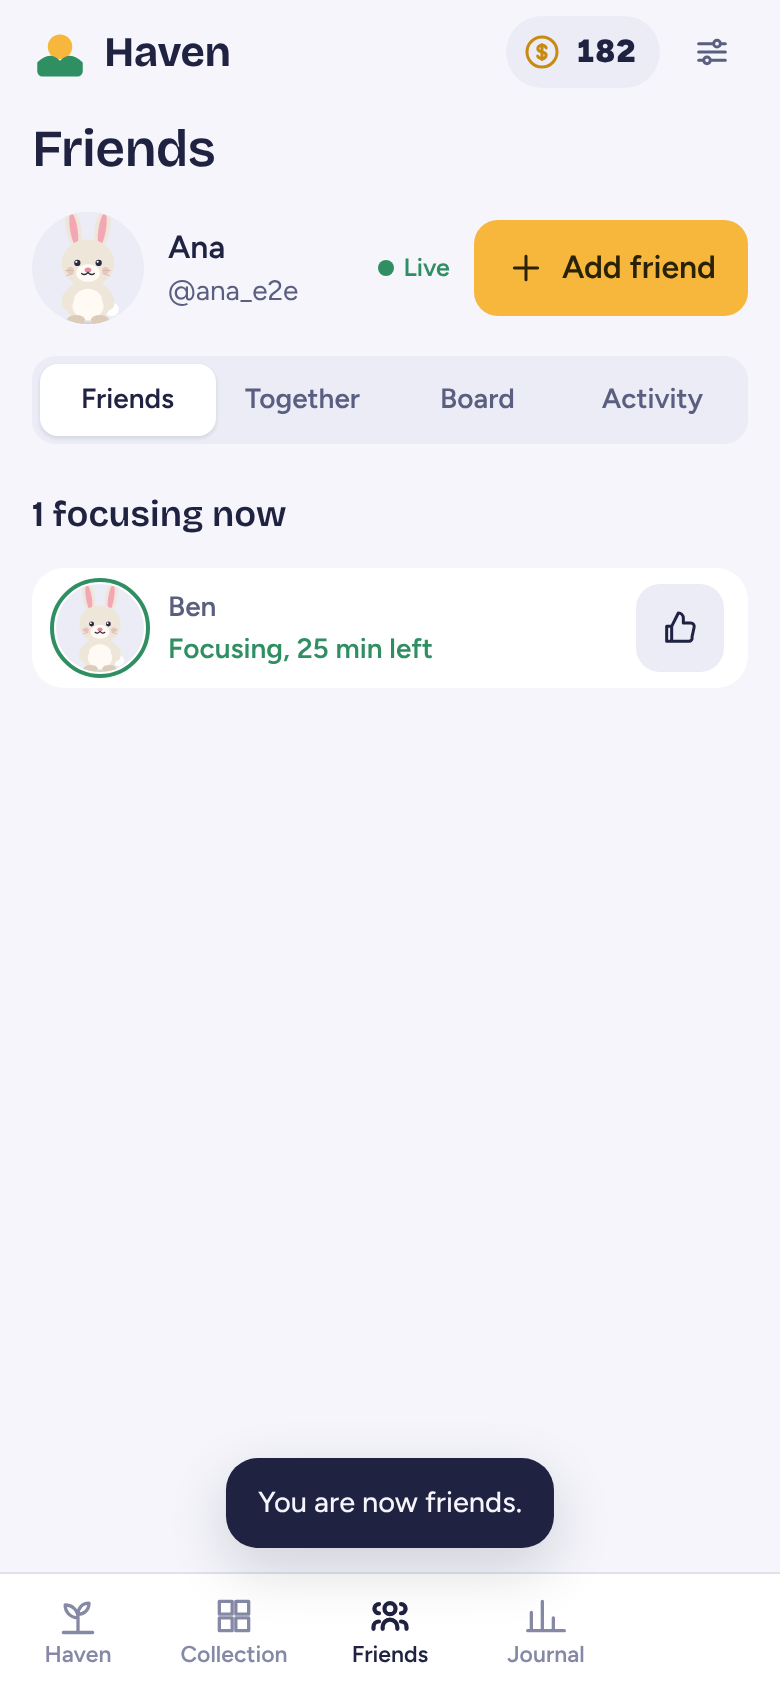
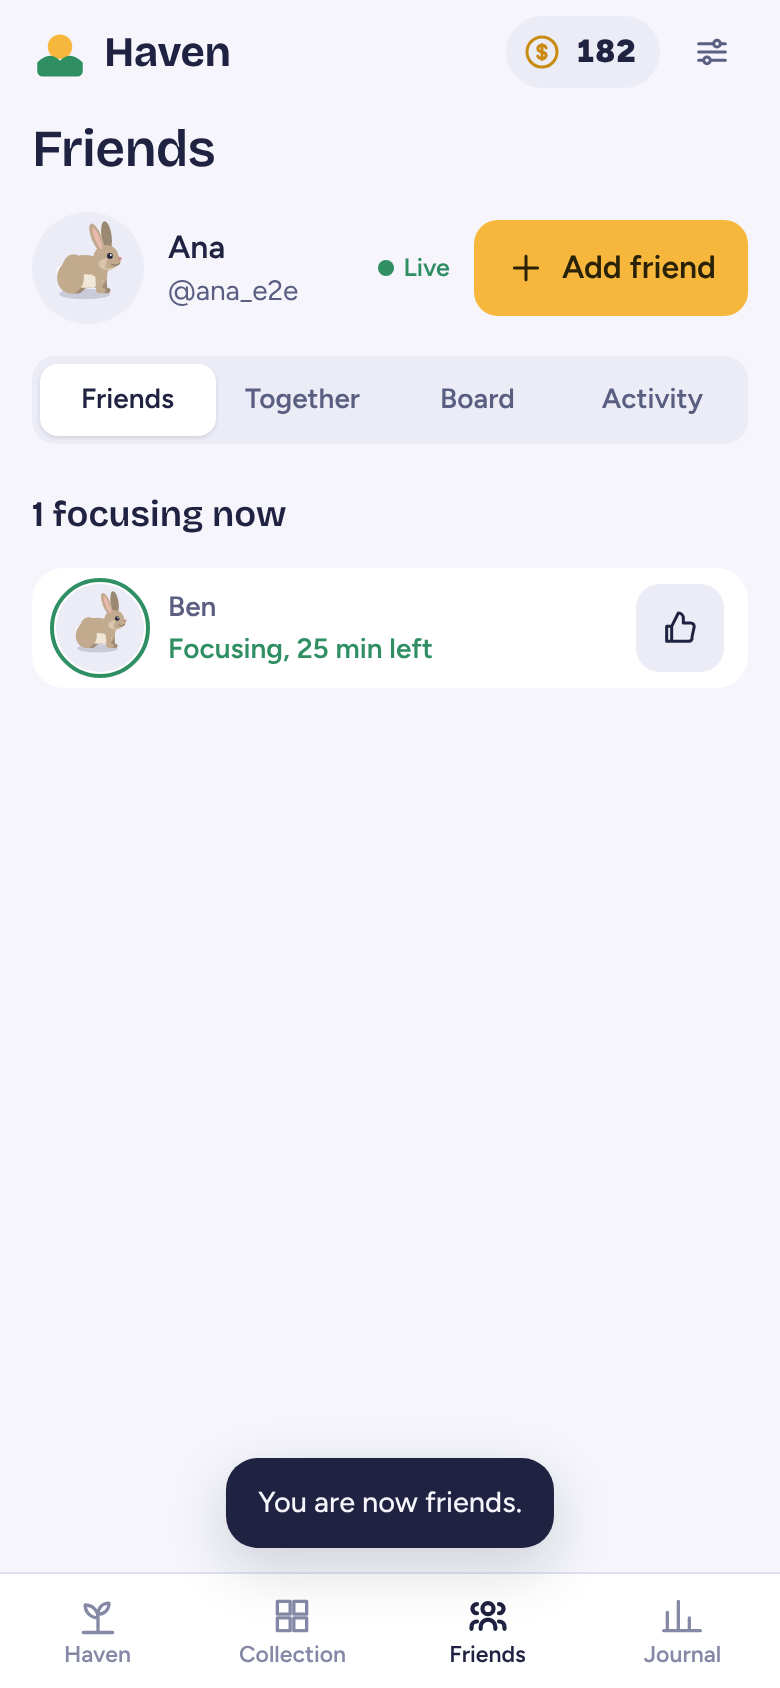
Small fixes to the way the app is laid out
- The tab bar made five columns for four tabs, so every tab sat left of
  where it belonged and a quarter of the bar was empty. It now divides
  itself between however many tabs there are, the way the segmented
  control already does.
- Animals sat low in the round avatars and were cropped at the bottom,
  because every drawing stands on the ground at the foot of its box.
  Each kind is now lifted by where its middle actually is.
- On a wide screen the treats and Arrange pills were pinned to the far
  corners, away from the haven. They now stay beside the land.
- Chrome darkens a slider's track to contrast with a light accent
  colour, so the volume slider had a near-black track on a white card.
  The track is drawn with the app's own colours in both themes.
- Chart bars were rounded at the bottom too, so they looked as though
  they floated above the line they stand on.

Claude-Session: https://claude.ai/code/session_01U2vW6AhbJutTokDW5NJwig

diff --git a/src/style.css b/src/style.css
@@ -52,7 +52,7 @@ svg { display: block; }
 .coins .icon { color: var(--coin); }
 .iconbutton { display: inline-grid; place-items: center; width: var(--touch); height: var(--touch); border-radius: var(--r-control); color: var(--muted); flex: none; }
 .iconbutton:hover { background: var(--soft); color: var(--ink); }
-.tabs { position: fixed; left: 0; right: 0; bottom: 0; z-index: 10; display: grid; grid-template-columns: repeat(5, 1fr); height: calc(var(--tabbar) + var(--sab)); padding: 0 var(--sar) var(--sab) var(--sal); background: var(--card); border-top: 1px solid var(--line); }
+.tabs { position: fixed; left: 0; right: 0; bottom: 0; z-index: 10; display: grid; grid-auto-flow: column; grid-auto-columns: 1fr; height: calc(var(--tabbar) + var(--sab)); padding: 0 var(--sar) var(--sab) var(--sal); background: var(--card); border-top: 1px solid var(--line); }
 .tabs button { display: flex; flex-direction: column; align-items: center; justify-content: center; gap: 3px; color: var(--faint); font: 600 11.5px/1 var(--text); }
 .tabs button[aria-current] { color: var(--ink); }
 .tabs button[aria-current] .icon { stroke-width: 2.3; }
@@ -98,7 +98,15 @@ svg { display: block; }
 .form-field small, .switch-row small, .choices small { color: var(--muted); font-size: 14px; font-weight: 400; }
 .form-field input:not([type="range"]), .form-field select, .form-field textarea { width: 100%; min-height: var(--touch); padding: 10px var(--s3); border: 1px solid var(--line); border-radius: var(--r-control); background: var(--card); }
 .form-field input[type="file"] { padding: var(--s2); }
-input[type="range"] { width: 100%; min-height: var(--touch); accent-color: var(--sun); }
+input[type="range"] { -webkit-appearance: none; appearance: none; width: 100%; min-height: var(--touch); background: none; }
+input[type="range"]::-webkit-slider-runnable-track { height: 6px; border-radius: 3px; background: linear-gradient(90deg, var(--sun) var(--fill, 50%), var(--line) var(--fill, 50%)); }
+input[type="range"]::-moz-range-track { height: 6px; border-radius: 3px; background: var(--line); }
+input[type="range"]::-moz-range-progress { height: 6px; border-radius: 3px; background: var(--sun); }
+input[type="range"]::-webkit-slider-thumb { -webkit-appearance: none; appearance: none; width: 22px; height: 22px; margin-top: -8px; border-radius: 50%; background: var(--sun); box-shadow: 0 1px 3px rgba(20, 21, 43, .3); }
+input[type="range"]::-moz-range-thumb { width: 22px; height: 22px; border: 0; border-radius: 50%; background: var(--sun); box-shadow: 0 1px 3px rgba(20, 21, 43, .3); }
+input[type="range"]:focus-visible { outline: none; }
+input[type="range"]:focus-visible::-webkit-slider-thumb { box-shadow: 0 0 0 3px var(--ring); }
+input[type="range"]:focus-visible::-moz-range-thumb { box-shadow: 0 0 0 3px var(--ring); }
 .form-error { color: var(--berry); font-size: 14px; font-weight: 500; }
 .form-grid { display: grid; grid-template-columns: 1fr 1fr; gap: var(--s3); }
 form { display: grid; gap: var(--s3); }
@@ -135,7 +143,9 @@ form { display: grid; gap: var(--s3); }
 .rank { width: 22px; text-align: center; font: 600 16px var(--display); color: var(--muted); }
 .avatar { display: block; width: 44px; height: 44px; flex: none; border-radius: 50%; background: var(--soft); overflow: hidden; }
 .avatar.large { width: 56px; height: 56px; }
-.avatar .sprite { width: 100%; height: 100%; transform: scale(1.12) translateY(3%); }
+.avatar .sprite { width: 100%; height: 100%; transform: translateY(-9%) scale(1.04); }
+.avatar.animal .sprite { transform: translateY(-17%) scale(.98); }
+.avatar.nature .sprite { transform: translateY(-17%) scale(1); }
 .badge { display: grid; place-items: center; width: 36px; height: 36px; border-radius: 50%; background: var(--soft); color: var(--faint); flex: none; }
 .row.got .badge { background: var(--sun); color: var(--sun-ink); }
 .row.todo b { color: var(--muted); }
@@ -171,7 +181,7 @@ button.clock { border-radius: var(--r-card); padding: 0 var(--s3); }
 .scene-label { position: relative; z-index: 2; margin-top: var(--s3); font: 600 14px var(--text); padding: 4px var(--s3); border-radius: var(--r-chip); background: var(--glass); color: var(--scene-ink); }
 .arranging .scene-label { margin-bottom: var(--s4); }
 .world-wrap { position: relative; z-index: 1; width: min(100%, 640px); }
-.scene-tools { position: absolute; z-index: 3; left: calc(var(--s3) + var(--sal)); right: calc(var(--s3) + var(--sar)); bottom: var(--s3); display: flex; justify-content: space-between; gap: var(--s2); pointer-events: none; }
+.scene-tools { position: absolute; z-index: 3; left: calc(var(--s3) + var(--sal)); right: calc(var(--s3) + var(--sar)); bottom: var(--s3); max-width: 640px; margin-inline: auto; display: flex; justify-content: space-between; gap: var(--s2); pointer-events: none; }
 .scene-tools .pill:only-child { margin-left: auto; }
 .pill { pointer-events: auto; display: inline-flex; align-items: center; gap: 6px; min-height: var(--touch); padding: 0 var(--s4) 0 var(--s3); border-radius: var(--r-chip); background: var(--card); color: var(--ink); font-weight: 600; font-size: 14px; box-shadow: 0 2px 10px rgba(20, 21, 43, .16); }
 .pill b { font-variant-numeric: tabular-nums; }
@@ -418,7 +428,7 @@ button.ent.animal:not(.sprouting)::before { content: ""; position: absolute; lef
 .stepper { display: flex; align-items: center; justify-content: space-between; }
 .stepper b { font-weight: 600; }
 .chart { width: 100%; height: auto; }
-.chart rect { fill: var(--leaf); }
+.chart path { fill: var(--leaf); }
 .chart line { stroke: var(--line); }
 .chart text { fill: var(--muted); font: 500 9px var(--text); text-anchor: middle; }
 .tag-bars { display: grid; gap: var(--s2); }

diff --git a/src/app.js b/src/app.js
@@ -1,6 +1,6 @@
 // Haven's shell: starts everything, draws the chosen screen, and routes taps, typing and
 // server messages to the screen that handles them.
-import { e, $, icon, toast, initDialog, openDialog, closeDialog, dialogOpen, confirmDialog } from './ui.js';
+import { e, $, icon, toast, initDialog, openDialog, closeDialog, dialogOpen, confirmDialog, paintRanges } from './ui.js';
 import { Store } from './store.js';
 import { Social, discoverApi } from './social.js';
 import { Timer } from './timer.js';
@@ -61,6 +61,7 @@ function render() {
   const scroll = view.scrollTop, focused = document.activeElement?.closest?.('#view') ? document.activeElement : null;
   const key = focused ? [focused.dataset.action, focused.dataset.id, focused.dataset.value, focused.dataset.page].join('|') : null;
   view.innerHTML = page.render(app);
+  paintRanges(view);
   view.scrollTop = scroll;
   if (key) [...view.querySelectorAll('[data-action]')].find(el => [el.dataset.action, el.dataset.id, el.dataset.value, el.dataset.page].join('|') === key)?.focus({ preventScroll: true });
   for (const tab of document.querySelectorAll('.tabs button')) { if (tab.dataset.page === app.ui.page) tab.setAttribute('aria-current', 'page'); else tab.removeAttribute('aria-current'); }
@@ -117,7 +118,11 @@ function wire() {
     event.preventDefault();
     forms[form.dataset.form]?.(app, form);
   });
-  document.addEventListener('input', event => { const name = event.target.dataset?.input; if (name) inputs[name]?.(app, event.target); });
+  document.addEventListener('input', event => {
+    if (event.target.type === 'range') paintRanges(event.target.parentElement || document);
+    const name = event.target.dataset?.input;
+    if (name) inputs[name]?.(app, event.target);
+  });
   document.addEventListener('change', event => { const name = event.target.dataset?.change; if (name) changes[name]?.(app, event.target); });
   document.addEventListener('visibilitychange', () => {
     if (document.visibilityState === 'hidden') app.timer.hidden();

diff --git a/src/ui.js b/src/ui.js
@@ -46,10 +46,18 @@ const ICONS = {
 };
 export const icon = (name, cls = '') => `<svg class="icon${cls ? ' ' + cls : ''}" viewBox="0 0 24 24" aria-hidden="true"><path d="${ICONS[name] || ICONS.info}"/></svg>`;
 
+/** Colour a slider's track up to where its handle is. Call it after drawing one, and as it moves. */
+export function paintRanges(root = document) {
+  for (const el of root.querySelectorAll('input[type="range"]')) {
+    const min = Number(el.min || 0), max = Number(el.max || 100);
+    el.style.setProperty('--fill', `${(((Number(el.value) - min) / (max - min || 1)) * 100).toFixed(1)}%`);
+  }
+}
+
 /** A species drawn at its natural size for lists and cards. */
 export function avatar(id, cls = '') {
   const s = speciesById(id) || speciesById('rabbit');
-  return `<span class="avatar${cls ? ' ' + cls : ''}">${sprite(s.id, { kind: s.kind })}</span>`;
+  return `<span class="avatar ${s.kind}${cls ? ' ' + cls : ''}">${sprite(s.id, { kind: s.kind })}</span>`;
 }
 
 /** A choice among a few views. `items` is [[value, label], …]. */
@@ -89,13 +97,14 @@ export function openDialog(title, body, options = {}) {
   dialog.innerHTML = `<div class="dialog-head"><h2 id="dialog-title">${e(title)}</h2>${options.locked ? '' : `<button class="iconbutton" data-action="close-dialog" aria-label="Close">${icon('close')}</button>`}</div><div class="dialog-body">${body}</div>`;
   if (!dialog.open) dialog.showModal();
   dialog.scrollTop = 0;
+  paintRanges(dialog);
   const first = dialog.querySelector('[autofocus]') || dialog.querySelector('.dialog-body button, .dialog-body input, .dialog-body select') || dialog.querySelector('button');
   first?.focus({ preventScroll: true });
 }
 /** Replace the dialog's content without closing it or moving focus away from a field being typed in. */
 export function updateDialog(body) {
   const el = $('#dialog .dialog-body');
-  if (el) el.innerHTML = body;
+  if (el) { el.innerHTML = body; paintRanges(el); }
 }
 export function closeDialog() {
   const dialog = $('#dialog');

diff --git a/src/views/journal.js b/src/views/journal.js
@@ -11,7 +11,14 @@ const dayText = ts => new Date(ts).toLocaleDateString('en-GB', { weekday: 'short
 
 function chart(p, sum) {
   const max = Math.max(...sum.bars, 1), n = sum.bars.length, w = 320 / n;
-  const bars = sum.bars.map((m, i) => { const h = m ? Math.max(3, (m / max) * 84) : 0; return `<rect x="${(i * w + w * 0.18).toFixed(1)}" y="${(92 - h).toFixed(1)}" width="${(w * 0.64).toFixed(1)}" height="${h.toFixed(1)}" rx="${Math.min(3, w * 0.3).toFixed(1)}"><title>${p.buckets[i].label || i + 1}: ${formatMinutes(m)}</title></rect>`; }).join('');
+  // Each bar is rounded at the top only, so it sits flat on the line it stands on.
+  const bars = sum.bars.map((m, i) => {
+    const h = m ? Math.max(3, (m / max) * 84) : 0;
+    if (!h) return '';
+    const x = i * w + w * 0.18, bw = w * 0.64, r = Math.min(3, bw / 2, h), y = 92 - h, f = v => v.toFixed(1);
+    const d = `M${f(x)} 92V${f(y + r)}a${f(r)} ${f(r)} 0 0 1 ${f(r)} ${f(-r)}h${f(bw - 2 * r)}a${f(r)} ${f(r)} 0 0 1 ${f(r)} ${f(r)}V92Z`;
+    return `<path d="${d}"><title>${p.buckets[i].label || i + 1}: ${formatMinutes(m)}</title></path>`;
+  }).join('');
   const labels = p.buckets.map((b, i) => (b.label ? `<text x="${(i * w + w / 2).toFixed(1)}" y="108">${b.label}</text>` : '')).join('');
   const what = { day: 'hour', week: 'day', month: 'day', year: 'month' }[p.kind];
   return `<svg class="chart" viewBox="0 0 320 112" role="img" aria-label="Focused time by ${what}. The most in one ${what} is ${formatMinutes(max === 1 && !sum.minutes ? 0 : max)}."><line x1="0" y1="92.5" x2="320" y2="92.5"/>${bars}${labels}</svg>`;

diff --git a/VALIDATION.md b/VALIDATION.md
@@ -12,7 +12,7 @@ Last updated 14 November 2026, version 1.2.0.
 | The animal simulation, with a fixed seed: every animal has traits, roaming the whole land without leaving it, greeting, visiting what they like (swimming in the pond, down the burrow), flying, walking short trips and perching, sleeping at night while night animals carry on, hungry animals being slow, following the haven as it changes, a crowd of all 27, hops that rise, tip and land, walkers easing in and out and going round a boulder and the pond, the right action in the right place (swim, drink, graze, sit, perch), and coming when called, eating when fed and jumping when petted | `tests/world.test.mjs` | 12 |
 | Session controller: finishing, cancelling, leaving in a browser and in the apps, restart, pomodoro, rooms | `tests/timer.test.mjs` | 10 |
 | Friends server, on the real Workers runtime (workerd, through Miniflare) with real WebSockets: every route, live pushes, limits, rooms under both rules, linking, backup, deletion, CORS, the test clock being off when deployed | `tests/hub.test.mjs` | 22 |
-| The app in headless Chrome at phone size, two people against the local friends server: a full session growing where it was planted, dragging it across the land, an animal moving in and roaming, feeding, petting and naming it, unlocking plants and nature, deep focus, profiles, a live friend request, live presence and a cheer, a room started together, the board and feed, visiting and a gift, a failed "together" room, the journal, settings, a second device, reload, 360 px and 1280 px widths, no console errors | `tests/browser.mjs` | 20 |
+| The app in headless Chrome at phone size, two people against the local friends server: a full session growing where it was planted, dragging it across the land, an animal moving in and roaming, feeding, petting and naming it, unlocking plants and nature, deep focus, profiles, a live friend request, live presence and a cheer, a room started together, the board and feed, visiting and a gift, a failed "together" room, the journal, settings, a second device, reload, 360 px and 1280 px widths, no console errors, the tab bar evenly divided, chart bars standing on their line | `tests/browser.mjs` | 20 |
 | The animals' moving parts, measured on screen in Chrome and in WebKit: standing in one piece, the head dipping about its pivot, lying down with eyes shut, rising off the ground while the shadow stays, legs swinging from the hip, wings spreading and beating, legs striding, sitting low in water | `tests/rig.mjs` | 7 each |
 
 The Worker also passes `wrangler deploy --dry-run` (config accepted, bundle 55 KiB).
